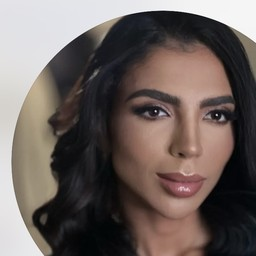
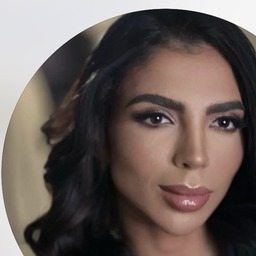
Redesign greeting as centered rose-gold hero
Larger photo avatar with soft ring/glow, Playfair Display title,
rotating daily subtitle, and remove the TESTE top-bar pill.

diff --git a/index.html b/index.html
@@ -6,6 +6,9 @@
   <meta name="robots" content="noindex, nofollow" />
   <meta name="theme-color" content="#f6efe8" />
   <title>Parcerias da semana — TESTE · Duda Vitti</title>
+  <link rel="preconnect" href="https://fonts.googleapis.com" />
+  <link rel="preconnect" href="https://fonts.gstatic.com" crossorigin />
+  <link href="https://fonts.googleapis.com/css2?family=Playfair+Display:wght@500;600;700&display=swap" rel="stylesheet" />
   <style>
     :root {
       --bg: #f6efe8;
@@ -58,34 +61,59 @@
     .topbar-main { flex: 1; min-width: 0; }
     .topbar-title { font-weight: 800; font-size: 1rem; letter-spacing: -0.02em; margin: 0; white-space: nowrap; overflow: hidden; text-overflow: ellipsis; }
     .topbar-sub { margin: 1px 0 0; font-size: 0.78rem; color: var(--muted); font-weight: 600; }
-    .badge-test {
-      font-size: 10px; font-weight: 800; letter-spacing: 0.04em; text-transform: uppercase;
-      color: var(--warn); background: var(--warn-soft); border-radius: 999px; padding: 4px 8px; flex-shrink: 0;
-    }
     main { max-width: 480px; margin: 0 auto; padding: 14px 14px 28px; }
 
     .hello {
-      display: flex; flex-direction: row; align-items: center; gap: 12px;
-      background: linear-gradient(145deg, #fffaf6 0%, #f8ebe4 100%);
-      border: 1px solid var(--line); border-radius: 18px;
-      padding: 14px 14px; margin-bottom: 14px; box-shadow: var(--shadow);
+      position: relative;
+      display: flex; flex-direction: column; align-items: center; text-align: center;
+      padding: 18px 12px 20px; margin: 2px 0 16px;
+      border: none; background: transparent; box-shadow: none;
+      overflow: visible;
+    }
+    .hello::before {
+      content: "";
+      position: absolute; left: 50%; top: 8px; transform: translateX(-50%);
+      width: min(280px, 78vw); height: 200px;
+      background: radial-gradient(ellipse at center,
+        rgba(232, 180, 174, 0.42) 0%,
+        rgba(243, 221, 216, 0.28) 38%,
+        rgba(246, 239, 232, 0) 72%);
+      pointer-events: none; z-index: 0;
+    }
+    .avatar-wrap {
+      position: relative; z-index: 1;
+      width: 108px; height: 108px; border-radius: 50%;
+      padding: 3px;
+      background: linear-gradient(145deg, #f0d0b0 0%, #e8b4ae 45%, #c97b7b 100%);
+      box-shadow:
+        0 10px 28px rgba(201, 123, 123, 0.22),
+        0 0 0 6px rgba(255, 248, 244, 0.65);
     }
     .avatar {
-      width: 48px; height: 48px; border-radius: 50%; flex-shrink: 0;
-      object-fit: cover; display: block;
-      border: 2px solid #e8b4ae;
-      box-shadow: 0 0 0 3px #fff8f4;
-      align-self: center; background: #f3ddd8;
+      width: 100%; height: 100%; border-radius: 50%;
+      object-fit: cover; object-position: center 28%;
+      display: block; background: #f3ddd8;
+      border: 2px solid #fffaf6;
     }
     .hello-text {
-      min-width: 0; flex: 1;
-      display: flex; flex-direction: column; justify-content: center;
+      position: relative; z-index: 1;
+      margin-top: 14px; min-width: 0; width: 100%;
+      display: flex; flex-direction: column; align-items: center;
     }
     .hello-hi {
-      margin: 0; font-weight: 800; font-size: 1.12rem; letter-spacing: -0.02em;
-      line-height: 1.2;
+      margin: 0;
+      font-family: "Playfair Display", Georgia, "Times New Roman", serif;
+      font-weight: 600; font-size: 1.7rem; letter-spacing: -0.01em;
+      line-height: 1.15; color: var(--ink);
     }
-    .hello-sub { margin: 4px 0 0; font-size: 0.86rem; color: var(--muted); font-weight: 500; }
+    .hello-sub {
+      margin: 8px 0 0; font-size: 0.92rem; color: var(--muted); font-weight: 500;
+      max-width: 20rem; line-height: 1.35;
+    }
+    .hello-date {
+      margin: 8px 0 0; font-size: 0.72rem; font-weight: 700;
+      letter-spacing: 0.12em; text-transform: uppercase; color: #b89a90;
+    }
     .special-card {
       width: 100%; text-align: left; cursor: pointer; color: inherit;
       border-radius: 18px; box-shadow: var(--shadow); margin-bottom: 10px; overflow: hidden;
@@ -298,15 +326,17 @@
       <p class="topbar-title" id="barTitle">Parcerias da semana — TESTE</p>
       <p class="topbar-sub" id="barSub">0/0 enviadas</p>
     </div>
-    <span class="badge-test">TESTE</span>
   </header>
 
   <main>
     <div class="hello" id="helloCard">
-      <img class="avatar" src="avatar.jpg" width="48" height="48" alt="Duda Vitti" />
+      <div class="avatar-wrap">
+        <img class="avatar" src="avatar.jpg" width="108" height="108" alt="Duda Vitti" />
+      </div>
       <div class="hello-text">
         <p class="hello-hi">Oi, Duda ✨</p>
-        <p class="hello-sub">Bora fechar parcerias lindas hoje?</p>
+        <p class="hello-sub" id="helloSub">Bora fechar parcerias lindas hoje?</p>
+        <p class="hello-date" id="helloDate"></p>
       </div>
     </div>
 
@@ -465,6 +495,34 @@
       if (same) return "Hoje · " + w + " " + dd + "/" + mm;
       return w.charAt(0).toUpperCase() + w.slice(1) + " " + dd + "/" + mm;
     }
+    var SWEET_PHRASES = [
+      "Bora fechar parcerias lindas hoje?",
+      "Hoje é dia de brilhar",
+      "Com carinho, um passo de cada vez",
+      "Você é luz — e o mundo percebe",
+      "Respiração fundo… e vamos juntas",
+      "Seu jeitinho único abre portas",
+      "Hoje: fé, café e coisas boas"
+    ];
+    function sweetPhraseForDate(iso) {
+      var s = String(iso || "0");
+      var h = 0;
+      for (var i = 0; i < s.length; i++) h = (h * 31 + s.charCodeAt(i)) >>> 0;
+      return SWEET_PHRASES[h % SWEET_PHRASES.length];
+    }
+    function updateHelloHero() {
+      var sub = document.getElementById("helloSub");
+      var dateEl = document.getElementById("helloDate");
+      if (!sub || !dateEl) return;
+      var iso = (data && data.daily && data.daily.date) || null;
+      if (!iso) {
+        var now = new Date();
+        iso = now.getFullYear() + "-" + String(now.getMonth() + 1).padStart(2, "0") + "-" + String(now.getDate()).padStart(2, "0");
+      }
+      sub.textContent = sweetPhraseForDate(iso);
+      dateEl.textContent = fullDateLabel(iso);
+    }
+
     function fullDateLabel(iso) {
       var d = parseDate(iso);
       var dd = String(d.getDate()).padStart(2, "0");
@@ -509,6 +567,7 @@
       helloCard.classList.remove("hidden");
       btnBack.classList.add("hidden");
       btnMenu.classList.remove("hidden");
+      updateHelloHero();
     }
     function setChromeInner() {
       helloCard.classList.add("hidden");
